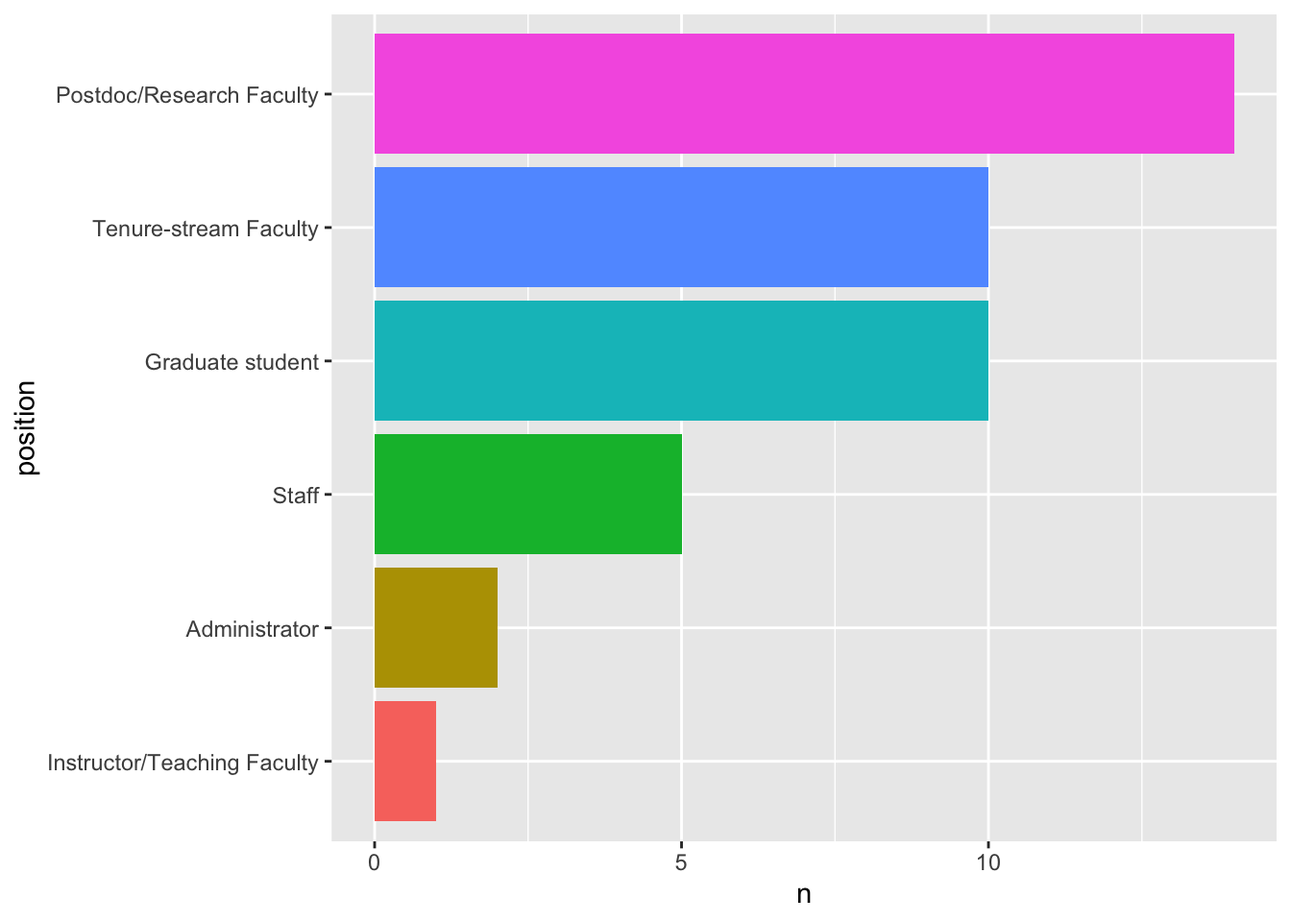
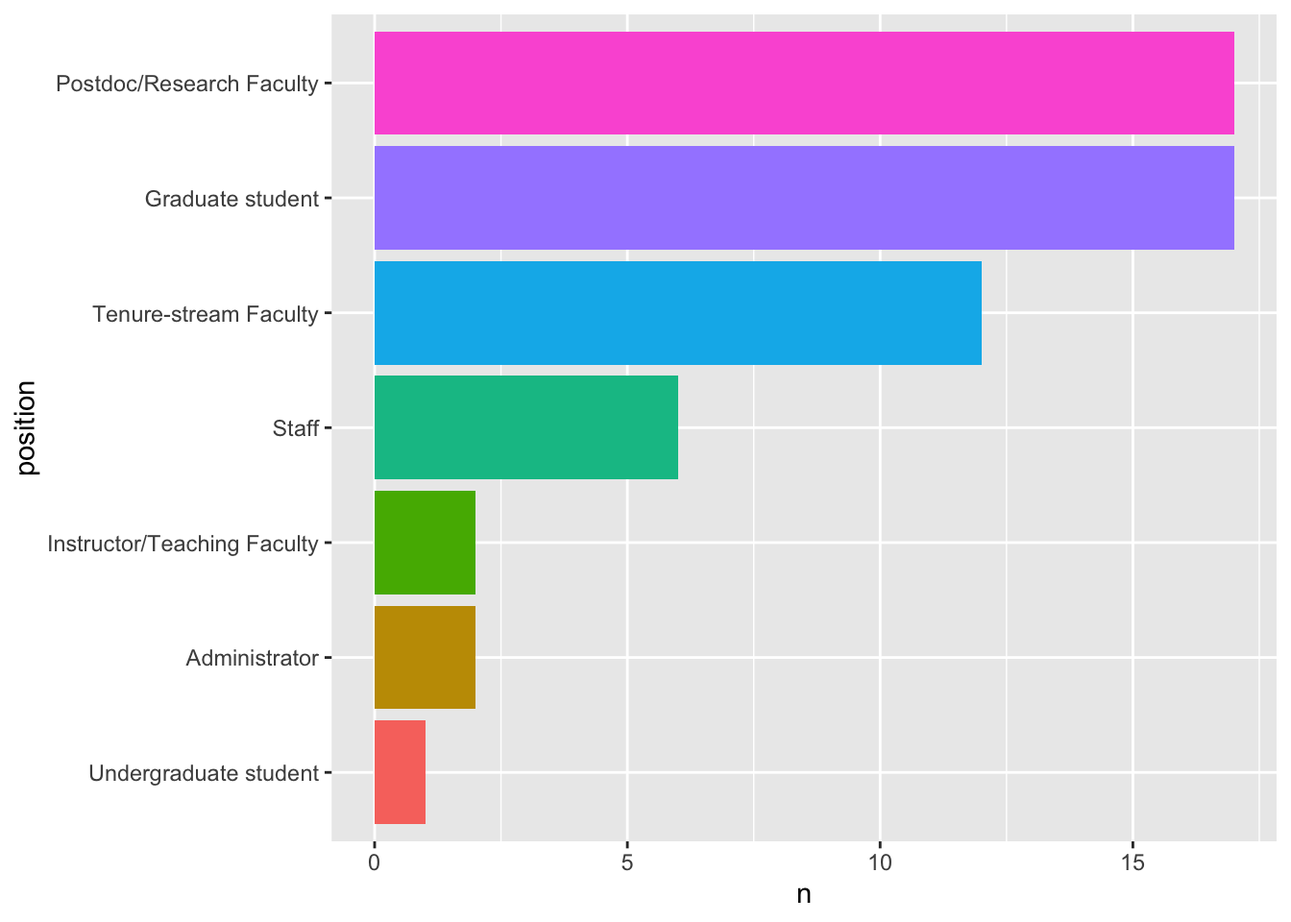
Update registration.qmd with new data.

diff --git a/docs/registration.html b/docs/registration.html
@@ -276,9 +276,7 @@ window.Quarto = {
   <li><a href="#registration-numbers" id="toc-registration-numbers" class="nav-link" data-scroll-target="#registration-numbers">Registration numbers</a></li>
   <li><a href="#time-series" id="toc-time-series" class="nav-link" data-scroll-target="#time-series">Time series</a></li>
   <li><a href="#registrant-attendance-plans-by-day" id="toc-registrant-attendance-plans-by-day" class="nav-link" data-scroll-target="#registrant-attendance-plans-by-day">Registrant attendance plans by day</a></li>
-  </ul></li>
-  <li><a href="#registrations-by-position" id="toc-registrations-by-position" class="nav-link" data-scroll-target="#registrations-by-position">Registrations by position</a>
-  <ul class="collapse">
+  <li><a href="#registrations-by-position" id="toc-registrations-by-position" class="nav-link" data-scroll-target="#registrations-by-position">Registrations by position</a></li>
   <li><a href="#registrations-by-unit" id="toc-registrations-by-unit" class="nav-link" data-scroll-target="#registrations-by-unit">Registrations by unit</a></li>
   </ul></li>
   </ul>
@@ -301,7 +299,7 @@ window.Quarto = {
     <div>
     <div class="quarto-title-meta-heading">Modified</div>
     <div class="quarto-title-meta-contents">
-      <p class="date-modified">July 10, 2025</p>
+      <p class="date-modified">July 11, 2025</p>
     </div>
   </div>
     
@@ -532,7 +530,7 @@ Table&nbsp;9.1: A minimal data dictionary.
 <span id="cb7-5"><a href="#cb7-5" aria-hidden="true" tabindex="-1"></a>  dplyr<span class="sc">::</span><span class="fu">mutate</span>(<span class="at">keynotes =</span> stringr<span class="sc">::</span><span class="fu">str_detect</span>(<span class="at">string =</span> bootcamp_keynote, <span class="at">pattern =</span> <span class="st">"Keynote"</span>))</span></code><button title="Copy to Clipboard" class="code-copy-button"><i class="bi"></i></button></pre></div>
 </details>
 </div>
-<p>As of 2025-07-10 09:51:55.91369, we have <span class="math inline">\(n=\)</span> 42 registered attendees. That is 56 % of our target registration/attendance limit of <em>n</em>=75.</p>
+<p>As of 2025-07-11 08:35:57.896865, we have <span class="math inline">\(n=\)</span> 57 registered attendees. That is 76 % of our target registration/attendance limit of <em>n</em>=75.</p>
 </section>
 <section id="time-series" class="level3 unnumbered">
 <h3 class="unnumbered anchored" data-anchor-id="time-series">Time series</h3>
@@ -609,13 +607,13 @@ n_fri
 <tbody>
 <tr>
 <td style="text-align:right;">
-31
+45
 </td>
 <td style="text-align:right;">
-36
+50
 </td>
 <td style="text-align:right;">
-29
+42
 </td>
 </tr>
 </tbody>
@@ -627,9 +625,8 @@ n_fri
 </div>
 </div>
 </section>
-</section>
-<section id="registrations-by-position" class="level2">
-<h2 class="anchored" data-anchor-id="registrations-by-position">Registrations by position</h2>
+<section id="registrations-by-position" class="level3">
+<h3 class="anchored" data-anchor-id="registrations-by-position">Registrations by position</h3>
 <div class="cell">
 <details class="code-fold">
 <summary>Code</summary>
@@ -657,6 +654,7 @@ Figure&nbsp;9.2: Registrations by position
 </div>
 </div>
 </div>
+</section>
 <section id="registrations-by-unit" class="level3">
 <h3 class="anchored" data-anchor-id="registrations-by-unit">Registrations by unit</h3>
 <div class="cell">
@@ -666,12 +664,12 @@ Figure&nbsp;9.2: Registrations by position
 <span id="cb11-2"><a href="#cb11-2" aria-hidden="true" tabindex="-1"></a>  dplyr<span class="sc">::</span><span class="fu">mutate</span>(</span>
 <span id="cb11-3"><a href="#cb11-3" aria-hidden="true" tabindex="-1"></a>    <span class="at">dept =</span> dplyr<span class="sc">::</span><span class="fu">recode</span>(</span>
 <span id="cb11-4"><a href="#cb11-4" aria-hidden="true" tabindex="-1"></a>      dept,</span>
-<span id="cb11-5"><a href="#cb11-5" aria-hidden="true" tabindex="-1"></a>      <span class="st">`</span><span class="at">Department of Chemical Engineering</span><span class="st">`</span> <span class="ot">=</span> <span class="st">"Chemical Engineering"</span>,</span>
-<span id="cb11-6"><a href="#cb11-6" aria-hidden="true" tabindex="-1"></a>      <span class="st">`</span><span class="at">Clinical Psychology</span><span class="st">`</span> <span class="ot">=</span> <span class="st">"Psychology"</span>,</span>
-<span id="cb11-7"><a href="#cb11-7" aria-hidden="true" tabindex="-1"></a>      <span class="st">`</span><span class="at">Psychology (Cognitive)</span><span class="st">`</span> <span class="ot">=</span> <span class="st">"Psychology"</span>,</span>
-<span id="cb11-8"><a href="#cb11-8" aria-hidden="true" tabindex="-1"></a>      <span class="st">`</span><span class="at">Psychology / SSRI</span><span class="st">`</span> <span class="ot">=</span> <span class="st">"Psychology"</span>,</span>
-<span id="cb11-9"><a href="#cb11-9" aria-hidden="true" tabindex="-1"></a>      <span class="st">`</span><span class="at">Department of Psychology</span><span class="st">`</span> <span class="ot">=</span> <span class="st">"Psychology"</span>,</span>
-<span id="cb11-10"><a href="#cb11-10" aria-hidden="true" tabindex="-1"></a>      <span class="st">`</span><span class="at">Cognitive Psychology</span><span class="st">`</span> <span class="ot">=</span> <span class="st">"Psychology"</span>,</span>
+<span id="cb11-5"><a href="#cb11-5" aria-hidden="true" tabindex="-1"></a>      <span class="st">`</span><span class="at">Clinical Psychology</span><span class="st">`</span> <span class="ot">=</span> <span class="st">"Psychology"</span>,</span>
+<span id="cb11-6"><a href="#cb11-6" aria-hidden="true" tabindex="-1"></a>      <span class="st">`</span><span class="at">Psychology (Cognitive)</span><span class="st">`</span> <span class="ot">=</span> <span class="st">"Psychology"</span>,</span>
+<span id="cb11-7"><a href="#cb11-7" aria-hidden="true" tabindex="-1"></a>      <span class="st">`</span><span class="at">Psychology / SSRI</span><span class="st">`</span> <span class="ot">=</span> <span class="st">"Psychology"</span>,</span>
+<span id="cb11-8"><a href="#cb11-8" aria-hidden="true" tabindex="-1"></a>      <span class="st">`</span><span class="at">Department of Psychology</span><span class="st">`</span> <span class="ot">=</span> <span class="st">"Psychology"</span>,</span>
+<span id="cb11-9"><a href="#cb11-9" aria-hidden="true" tabindex="-1"></a>      <span class="st">`</span><span class="at">Cognitive Psychology</span><span class="st">`</span> <span class="ot">=</span> <span class="st">"Psychology"</span>,</span>
+<span id="cb11-10"><a href="#cb11-10" aria-hidden="true" tabindex="-1"></a>      <span class="st">`</span><span class="at">Psychology, Developmental</span><span class="st">`</span> <span class="ot">=</span> <span class="st">"Psychology"</span>,</span>
 <span id="cb11-11"><a href="#cb11-11" aria-hidden="true" tabindex="-1"></a>      <span class="st">`</span><span class="at">Psych</span><span class="st">`</span> <span class="ot">=</span> <span class="st">"Psychology"</span>,</span>
 <span id="cb11-12"><a href="#cb11-12" aria-hidden="true" tabindex="-1"></a>      <span class="st">`</span><span class="at">English language</span><span class="st">`</span> <span class="ot">=</span> <span class="st">"English"</span>,</span>
 <span id="cb11-13"><a href="#cb11-13" aria-hidden="true" tabindex="-1"></a>      <span class="st">`</span><span class="at">english</span><span class="st">`</span> <span class="ot">=</span> <span class="st">"English"</span>,</span>
@@ -681,80 +679,96 @@ Figure&nbsp;9.2: Registrations by position
 <span id="cb11-17"><a href="#cb11-17" aria-hidden="true" tabindex="-1"></a>      <span class="st">`</span><span class="at">Languages and Literature</span><span class="st">`</span> <span class="ot">=</span> <span class="st">"Global Languages &amp; Literatures"</span>,</span>
 <span id="cb11-18"><a href="#cb11-18" aria-hidden="true" tabindex="-1"></a>      <span class="st">`</span><span class="at">Department of Foreign Languages</span><span class="st">`</span> <span class="ot">=</span> <span class="st">"Global Languages &amp; Literatures"</span>,</span>
 <span id="cb11-19"><a href="#cb11-19" aria-hidden="true" tabindex="-1"></a>      <span class="st">`</span><span class="at">Linguistics</span><span class="st">`</span> <span class="ot">=</span> <span class="st">"Applied Linguistics"</span>,</span>
-<span id="cb11-20"><a href="#cb11-20" aria-hidden="true" tabindex="-1"></a>      <span class="st">`</span><span class="at">Human Development and Family Studies &amp; Social Data Analytics</span><span class="st">`</span> <span class="ot">=</span> <span class="st">"HDFS"</span>,</span>
-<span id="cb11-21"><a href="#cb11-21" aria-hidden="true" tabindex="-1"></a>      <span class="st">`</span><span class="at">Human Development and Family Studies</span><span class="st">`</span> <span class="ot">=</span> <span class="st">"HDFS"</span>,</span>
-<span id="cb11-22"><a href="#cb11-22" aria-hidden="true" tabindex="-1"></a>      <span class="st">`</span><span class="at">Human Development and Family Studies (HDFS)</span><span class="st">`</span> <span class="ot">=</span> <span class="st">"HDFS"</span>,</span>
-<span id="cb11-23"><a href="#cb11-23" aria-hidden="true" tabindex="-1"></a>      <span class="st">`</span><span class="at">Department of Human Development and Family Studies</span><span class="st">`</span> <span class="ot">=</span> <span class="st">"HDFS"</span>,</span>
-<span id="cb11-24"><a href="#cb11-24" aria-hidden="true" tabindex="-1"></a>      <span class="st">`</span><span class="at">HDFS/DEMO</span><span class="st">`</span> <span class="ot">=</span> <span class="st">"HDFS"</span>,</span>
-<span id="cb11-25"><a href="#cb11-25" aria-hidden="true" tabindex="-1"></a>      <span class="st">`</span><span class="at">bbh</span><span class="st">`</span> <span class="ot">=</span> <span class="st">"BBH"</span>,</span>
-<span id="cb11-26"><a href="#cb11-26" aria-hidden="true" tabindex="-1"></a>      <span class="st">`</span><span class="at">Biobehavioral Health</span><span class="st">`</span> <span class="ot">=</span> <span class="st">"BBH"</span>,</span>
-<span id="cb11-27"><a href="#cb11-27" aria-hidden="true" tabindex="-1"></a>      <span class="st">`</span><span class="at">Biobehavioural Health</span><span class="st">`</span> <span class="ot">=</span> <span class="st">"BBH"</span>,</span>
-<span id="cb11-28"><a href="#cb11-28" aria-hidden="true" tabindex="-1"></a>      <span class="st">`</span><span class="at">RPTM</span><span class="st">`</span> <span class="ot">=</span> <span class="st">"Recreation, Park, &amp; Tourism Management"</span>,</span>
-<span id="cb11-29"><a href="#cb11-29" aria-hidden="true" tabindex="-1"></a>      <span class="st">`</span><span class="at">Sociology and Social Data Analytics</span><span class="st">`</span> <span class="ot">=</span> <span class="st">"Sociology"</span>,</span>
-<span id="cb11-30"><a href="#cb11-30" aria-hidden="true" tabindex="-1"></a>      <span class="st">`</span><span class="at">Spanish Italian and portuguese</span><span class="st">`</span> <span class="ot">=</span> <span class="st">"Spanish, Italian, &amp; Portuguese"</span>,</span>
-<span id="cb11-31"><a href="#cb11-31" aria-hidden="true" tabindex="-1"></a>      <span class="st">`</span><span class="at">Spanish, Italian, and Portuguese Department</span><span class="st">`</span> <span class="ot">=</span> <span class="st">"Spanish, Italian, &amp; Portuguese"</span>,</span>
-<span id="cb11-32"><a href="#cb11-32" aria-hidden="true" tabindex="-1"></a>      <span class="st">`</span><span class="at">Spanish Italian and Portuguese</span><span class="st">`</span> <span class="ot">=</span> <span class="st">"Spanish, Italian, &amp; Portuguese"</span>,</span>
-<span id="cb11-33"><a href="#cb11-33" aria-hidden="true" tabindex="-1"></a>      <span class="st">`</span><span class="at">Nutrition</span><span class="st">`</span> <span class="ot">=</span> <span class="st">"Nutritional Sciences"</span>,</span>
-<span id="cb11-34"><a href="#cb11-34" aria-hidden="true" tabindex="-1"></a>      <span class="st">`</span><span class="at">College of IST</span><span class="st">`</span> <span class="ot">=</span> <span class="st">"IST"</span>,</span>
-<span id="cb11-35"><a href="#cb11-35" aria-hidden="true" tabindex="-1"></a>      <span class="st">`</span><span class="at">Statistics Department</span><span class="st">`</span> <span class="ot">=</span> <span class="st">"Statistics"</span>,</span>
-<span id="cb11-36"><a href="#cb11-36" aria-hidden="true" tabindex="-1"></a>      <span class="st">`</span><span class="at">Recreation, Park and Tourism Management</span><span class="st">`</span> <span class="ot">=</span> <span class="st">"Recreation, Park, &amp; Tourism Management"</span>,</span>
-<span id="cb11-37"><a href="#cb11-37" aria-hidden="true" tabindex="-1"></a>      <span class="st">`</span><span class="at">SHS</span><span class="st">`</span> <span class="ot">=</span> <span class="st">"Student Health Svcs"</span>,</span>
-<span id="cb11-38"><a href="#cb11-38" aria-hidden="true" tabindex="-1"></a>      <span class="st">`</span><span class="at">ESM</span><span class="st">`</span> <span class="ot">=</span> <span class="st">"Engineering Science &amp; Mechanics"</span>,</span>
-<span id="cb11-39"><a href="#cb11-39" aria-hidden="true" tabindex="-1"></a>      <span class="st">`</span><span class="at">Engineering Science</span><span class="st">`</span> <span class="ot">=</span> <span class="st">"Engineering Science &amp; Mechanics"</span>,</span>
-<span id="cb11-40"><a href="#cb11-40" aria-hidden="true" tabindex="-1"></a>      <span class="st">`</span><span class="at">Engineering Science and Mechanics</span><span class="st">`</span> <span class="ot">=</span> <span class="st">"Engineering Science &amp; Mechanics"</span>,</span>
-<span id="cb11-41"><a href="#cb11-41" aria-hidden="true" tabindex="-1"></a>      <span class="st">`</span><span class="at">Department of Food Science</span><span class="st">`</span> <span class="ot">=</span> <span class="st">"Food Science"</span>,</span>
-<span id="cb11-42"><a href="#cb11-42" aria-hidden="true" tabindex="-1"></a>      <span class="st">`</span><span class="at">Libraries</span><span class="st">`</span> <span class="ot">=</span> <span class="st">"University Libraries"</span>,</span>
-<span id="cb11-43"><a href="#cb11-43" aria-hidden="true" tabindex="-1"></a>      <span class="st">`</span><span class="at">University libraries</span><span class="st">`</span> <span class="ot">=</span> <span class="st">"University Libraries"</span>,</span>
-<span id="cb11-44"><a href="#cb11-44" aria-hidden="true" tabindex="-1"></a>      <span class="st">`</span><span class="at">Astronomy and Astrophysics</span><span class="st">`</span> <span class="ot">=</span> <span class="st">"Astronomy &amp; Astrophysics"</span>,</span>
-<span id="cb11-45"><a href="#cb11-45" aria-hidden="true" tabindex="-1"></a>      <span class="st">`</span><span class="at">Ecosystem Science and Management</span><span class="st">`</span> <span class="ot">=</span> <span class="st">"Ecosystem Science &amp; Management"</span></span>
-<span id="cb11-46"><a href="#cb11-46" aria-hidden="true" tabindex="-1"></a>    )</span>
-<span id="cb11-47"><a href="#cb11-47" aria-hidden="true" tabindex="-1"></a>  ) <span class="sc">|&gt;</span> </span>
-<span id="cb11-48"><a href="#cb11-48" aria-hidden="true" tabindex="-1"></a>  dplyr<span class="sc">::</span><span class="fu">mutate</span>(</span>
-<span id="cb11-49"><a href="#cb11-49" aria-hidden="true" tabindex="-1"></a>    <span class="at">college =</span> <span class="fu">case_match</span>(</span>
-<span id="cb11-50"><a href="#cb11-50" aria-hidden="true" tabindex="-1"></a>      dept,</span>
-<span id="cb11-51"><a href="#cb11-51" aria-hidden="true" tabindex="-1"></a>      <span class="st">"Statistics"</span> <span class="sc">~</span> <span class="st">"ECoS"</span>,</span>
-<span id="cb11-52"><a href="#cb11-52" aria-hidden="true" tabindex="-1"></a>      <span class="st">"Biology"</span> <span class="sc">~</span> <span class="st">"ECoS"</span>,</span>
-<span id="cb11-53"><a href="#cb11-53" aria-hidden="true" tabindex="-1"></a>      <span class="st">"Psychology"</span> <span class="sc">~</span> <span class="st">"CLA"</span>,</span>
-<span id="cb11-54"><a href="#cb11-54" aria-hidden="true" tabindex="-1"></a>      <span class="st">"Spanish, Italian, &amp; Portuguese"</span> <span class="sc">~</span> <span class="st">"CLA"</span>,</span>
-<span id="cb11-55"><a href="#cb11-55" aria-hidden="true" tabindex="-1"></a>      <span class="st">"Research Informatics and Publishing"</span> <span class="sc">~</span> <span class="st">"Libraries"</span>,</span>
-<span id="cb11-56"><a href="#cb11-56" aria-hidden="true" tabindex="-1"></a>      <span class="st">"Political Science"</span> <span class="sc">~</span> <span class="st">"CLA"</span>,</span>
-<span id="cb11-57"><a href="#cb11-57" aria-hidden="true" tabindex="-1"></a>      <span class="st">"Applied Linguistics"</span> <span class="sc">~</span> <span class="st">"CLA"</span>,</span>
-<span id="cb11-58"><a href="#cb11-58" aria-hidden="true" tabindex="-1"></a>      <span class="st">"Global Languages &amp; Literatures"</span> <span class="sc">~</span> <span class="st">"CLA"</span>,</span>
-<span id="cb11-59"><a href="#cb11-59" aria-hidden="true" tabindex="-1"></a>      <span class="st">"Sociology"</span> <span class="sc">~</span> <span class="st">"CLA"</span>,</span>
-<span id="cb11-60"><a href="#cb11-60" aria-hidden="true" tabindex="-1"></a>      <span class="st">"English"</span> <span class="sc">~</span> <span class="st">"CLA"</span>,</span>
-<span id="cb11-61"><a href="#cb11-61" aria-hidden="true" tabindex="-1"></a>      <span class="st">"C-SoDA"</span> <span class="sc">~</span> <span class="st">"CLA"</span>,</span>
-<span id="cb11-62"><a href="#cb11-62" aria-hidden="true" tabindex="-1"></a>      <span class="st">"Office of Digital Pedagogies and Initiatives"</span> <span class="sc">~</span> <span class="st">"CLA"</span>,</span>
-<span id="cb11-63"><a href="#cb11-63" aria-hidden="true" tabindex="-1"></a>      <span class="st">"Asian Studies"</span> <span class="sc">~</span> <span class="st">"CLA"</span>,</span>
-<span id="cb11-64"><a href="#cb11-64" aria-hidden="true" tabindex="-1"></a>      <span class="st">"IST"</span> <span class="sc">~</span> <span class="st">"IST"</span>,</span>
-<span id="cb11-65"><a href="#cb11-65" aria-hidden="true" tabindex="-1"></a>      <span class="st">"Chemical Engineering"</span> <span class="sc">~</span> <span class="st">"Engineering"</span>,</span>
-<span id="cb11-66"><a href="#cb11-66" aria-hidden="true" tabindex="-1"></a>      <span class="st">"Material Science and Engineering"</span> <span class="sc">~</span> <span class="st">"Engineering"</span>,</span>
-<span id="cb11-67"><a href="#cb11-67" aria-hidden="true" tabindex="-1"></a>      <span class="st">"Engineering Science &amp; Mechanics"</span> <span class="sc">~</span> <span class="st">"Engineering"</span>,</span>
-<span id="cb11-68"><a href="#cb11-68" aria-hidden="true" tabindex="-1"></a>      <span class="st">"College of Engineering"</span> <span class="sc">~</span> <span class="st">"Engineering"</span>,</span>
-<span id="cb11-69"><a href="#cb11-69" aria-hidden="true" tabindex="-1"></a>      <span class="st">"Biomedical Engineering"</span> <span class="sc">~</span> <span class="st">"Engineering"</span>,</span>
-<span id="cb11-70"><a href="#cb11-70" aria-hidden="true" tabindex="-1"></a>      <span class="st">"Nutritional Sciences"</span> <span class="sc">~</span> <span class="st">"HHD"</span>,</span>
-<span id="cb11-71"><a href="#cb11-71" aria-hidden="true" tabindex="-1"></a>      <span class="st">"HDFS"</span> <span class="sc">~</span> <span class="st">"HHD"</span>,</span>
-<span id="cb11-72"><a href="#cb11-72" aria-hidden="true" tabindex="-1"></a>      <span class="st">"Kinesiology"</span> <span class="sc">~</span> <span class="st">"HHD"</span>,</span>
-<span id="cb11-73"><a href="#cb11-73" aria-hidden="true" tabindex="-1"></a>      <span class="st">"Recreation, Park, &amp; Tourism Management"</span> <span class="sc">~</span> <span class="st">"HHD"</span>,</span>
-<span id="cb11-74"><a href="#cb11-74" aria-hidden="true" tabindex="-1"></a>      <span class="st">"BBH"</span> <span class="sc">~</span> <span class="st">"HHD"</span>,</span>
-<span id="cb11-75"><a href="#cb11-75" aria-hidden="true" tabindex="-1"></a>      <span class="st">"College of Nursing"</span> <span class="sc">~</span> <span class="st">"Nursing"</span>,</span>
-<span id="cb11-76"><a href="#cb11-76" aria-hidden="true" tabindex="-1"></a>      <span class="st">"Bellisario College of Communication"</span> <span class="sc">~</span> <span class="st">"Comm"</span>,</span>
-<span id="cb11-77"><a href="#cb11-77" aria-hidden="true" tabindex="-1"></a>      <span class="st">"Marketing"</span> <span class="sc">~</span> <span class="st">"Smeal"</span>,</span>
-<span id="cb11-78"><a href="#cb11-78" aria-hidden="true" tabindex="-1"></a>      <span class="st">"Food Science"</span> <span class="sc">~</span> <span class="st">"Ag"</span>,</span>
-<span id="cb11-79"><a href="#cb11-79" aria-hidden="true" tabindex="-1"></a>      <span class="st">"Neuroscience"</span> <span class="sc">~</span> <span class="st">"Med"</span>,</span>
-<span id="cb11-80"><a href="#cb11-80" aria-hidden="true" tabindex="-1"></a>      <span class="st">"College of Human and Health Development"</span> <span class="sc">~</span> <span class="st">"HHD"</span>,</span>
-<span id="cb11-81"><a href="#cb11-81" aria-hidden="true" tabindex="-1"></a>      <span class="st">"University Libraries"</span> <span class="sc">~</span> <span class="st">"Libraries"</span>,</span>
-<span id="cb11-82"><a href="#cb11-82" aria-hidden="true" tabindex="-1"></a>      <span class="st">"ICDS"</span> <span class="sc">~</span> <span class="st">"ICDS"</span>,</span>
-<span id="cb11-83"><a href="#cb11-83" aria-hidden="true" tabindex="-1"></a>      <span class="st">"EESI"</span> <span class="sc">~</span> <span class="st">"EESI"</span>,</span>
-<span id="cb11-84"><a href="#cb11-84" aria-hidden="true" tabindex="-1"></a>      <span class="st">"ORP"</span> <span class="sc">~</span> <span class="st">"OVPR"</span>,</span>
-<span id="cb11-85"><a href="#cb11-85" aria-hidden="true" tabindex="-1"></a>      <span class="st">"Astronomy &amp; Astrophysics"</span> <span class="sc">~</span> <span class="st">"ECoS"</span>,</span>
-<span id="cb11-86"><a href="#cb11-86" aria-hidden="true" tabindex="-1"></a>      <span class="st">"Entomology"</span> <span class="sc">~</span> <span class="st">"AgSci"</span>,</span>
-<span id="cb11-87"><a href="#cb11-87" aria-hidden="true" tabindex="-1"></a>      <span class="st">"Ecosystem Science &amp; Management"</span> <span class="sc">~</span> <span class="st">"AgSci"</span>,</span>
-<span id="cb11-88"><a href="#cb11-88" aria-hidden="true" tabindex="-1"></a>      <span class="st">"Plant Biology"</span> <span class="sc">~</span> <span class="st">"Huck"</span>,</span>
-<span id="cb11-89"><a href="#cb11-89" aria-hidden="true" tabindex="-1"></a>      <span class="st">"Acoustics"</span> <span class="sc">~</span> <span class="st">"Engineering"</span></span>
-<span id="cb11-90"><a href="#cb11-90" aria-hidden="true" tabindex="-1"></a>    ),</span>
-<span id="cb11-91"><a href="#cb11-91" aria-hidden="true" tabindex="-1"></a>    <span class="at">.default =</span> <span class="st">"Unknown"</span>,</span>
-<span id="cb11-92"><a href="#cb11-92" aria-hidden="true" tabindex="-1"></a>    <span class="at">.missing =</span> <span class="st">"Unknown"</span></span>
-<span id="cb11-93"><a href="#cb11-93" aria-hidden="true" tabindex="-1"></a>  )</span></code><button title="Copy to Clipboard" class="code-copy-button"><i class="bi"></i></button></pre></div>
+<span id="cb11-20"><a href="#cb11-20" aria-hidden="true" tabindex="-1"></a>      <span class="st">`</span><span class="at">Department of Sociology and Criminology</span><span class="st">`</span> <span class="ot">=</span> <span class="st">"Sociology &amp; Criminology"</span>,</span>
+<span id="cb11-21"><a href="#cb11-21" aria-hidden="true" tabindex="-1"></a>      <span class="st">`</span><span class="at">Communication Sciences and Disorders</span><span class="st">`</span> <span class="ot">=</span> <span class="st">"Communication Sciences &amp; Disorders"</span>,</span>
+<span id="cb11-22"><a href="#cb11-22" aria-hidden="true" tabindex="-1"></a>      <span class="st">`</span><span class="at">CSD</span><span class="st">`</span> <span class="ot">=</span> <span class="st">"Communication Sciences &amp; Disorders"</span>,</span>
+<span id="cb11-23"><a href="#cb11-23" aria-hidden="true" tabindex="-1"></a>      <span class="st">`</span><span class="at">Human Development and Family Studies &amp; Social Data Analytics</span><span class="st">`</span> <span class="ot">=</span> <span class="st">"HDFS"</span>,</span>
+<span id="cb11-24"><a href="#cb11-24" aria-hidden="true" tabindex="-1"></a>      <span class="st">`</span><span class="at">Human Development and Family Studies</span><span class="st">`</span> <span class="ot">=</span> <span class="st">"HDFS"</span>,</span>
+<span id="cb11-25"><a href="#cb11-25" aria-hidden="true" tabindex="-1"></a>      <span class="st">`</span><span class="at">Human Development and Family Studies (HDFS)</span><span class="st">`</span> <span class="ot">=</span> <span class="st">"HDFS"</span>,</span>
+<span id="cb11-26"><a href="#cb11-26" aria-hidden="true" tabindex="-1"></a>      <span class="st">`</span><span class="at">Department of Human Development and Family Studies</span><span class="st">`</span> <span class="ot">=</span> <span class="st">"HDFS"</span>,</span>
+<span id="cb11-27"><a href="#cb11-27" aria-hidden="true" tabindex="-1"></a>      <span class="st">`</span><span class="at">Human Development and Family Sciences</span><span class="st">`</span> <span class="ot">=</span> <span class="st">"HDFS"</span>,</span>
+<span id="cb11-28"><a href="#cb11-28" aria-hidden="true" tabindex="-1"></a>      <span class="st">`</span><span class="at">HDFS/DEMO</span><span class="st">`</span> <span class="ot">=</span> <span class="st">"HDFS"</span>,</span>
+<span id="cb11-29"><a href="#cb11-29" aria-hidden="true" tabindex="-1"></a>      <span class="st">`</span><span class="at">bbh</span><span class="st">`</span> <span class="ot">=</span> <span class="st">"BBH"</span>,</span>
+<span id="cb11-30"><a href="#cb11-30" aria-hidden="true" tabindex="-1"></a>      <span class="st">`</span><span class="at">Biobehavioral Health</span><span class="st">`</span> <span class="ot">=</span> <span class="st">"BBH"</span>,</span>
+<span id="cb11-31"><a href="#cb11-31" aria-hidden="true" tabindex="-1"></a>      <span class="st">`</span><span class="at">Biobehavioural Health</span><span class="st">`</span> <span class="ot">=</span> <span class="st">"BBH"</span>,</span>
+<span id="cb11-32"><a href="#cb11-32" aria-hidden="true" tabindex="-1"></a>      <span class="st">`</span><span class="at">Biobehavioural  Health</span><span class="st">`</span> <span class="ot">=</span> <span class="st">"BBH"</span>,</span>
+<span id="cb11-33"><a href="#cb11-33" aria-hidden="true" tabindex="-1"></a>      <span class="st">`</span><span class="at">RPTM</span><span class="st">`</span> <span class="ot">=</span> <span class="st">"Recreation, Park, &amp; Tourism Management"</span>,</span>
+<span id="cb11-34"><a href="#cb11-34" aria-hidden="true" tabindex="-1"></a>      <span class="st">`</span><span class="at">Sociology and Social Data Analytics</span><span class="st">`</span> <span class="ot">=</span> <span class="st">"Sociology"</span>,</span>
+<span id="cb11-35"><a href="#cb11-35" aria-hidden="true" tabindex="-1"></a>      <span class="st">`</span><span class="at">Spanish Italian and portuguese</span><span class="st">`</span> <span class="ot">=</span> <span class="st">"Spanish, Italian, &amp; Portuguese"</span>,</span>
+<span id="cb11-36"><a href="#cb11-36" aria-hidden="true" tabindex="-1"></a>      <span class="st">`</span><span class="at">Spanish, Italian, and Portuguese Department</span><span class="st">`</span> <span class="ot">=</span> <span class="st">"Spanish, Italian, &amp; Portuguese"</span>,</span>
+<span id="cb11-37"><a href="#cb11-37" aria-hidden="true" tabindex="-1"></a>      <span class="st">`</span><span class="at">Spanish Italian and Portuguese</span><span class="st">`</span> <span class="ot">=</span> <span class="st">"Spanish, Italian, &amp; Portuguese"</span>,</span>
+<span id="cb11-38"><a href="#cb11-38" aria-hidden="true" tabindex="-1"></a>      <span class="st">`</span><span class="at">Spanish, Italian, and Portuguese</span><span class="st">`</span> <span class="ot">=</span> <span class="st">"Spanish, Italian, &amp; Portuguese"</span>,</span>
+<span id="cb11-39"><a href="#cb11-39" aria-hidden="true" tabindex="-1"></a>      <span class="st">`</span><span class="at">Nutrition</span><span class="st">`</span> <span class="ot">=</span> <span class="st">"Nutritional Sciences"</span>,</span>
+<span id="cb11-40"><a href="#cb11-40" aria-hidden="true" tabindex="-1"></a>      <span class="st">`</span><span class="at">College of IST</span><span class="st">`</span> <span class="ot">=</span> <span class="st">"IST"</span>,</span>
+<span id="cb11-41"><a href="#cb11-41" aria-hidden="true" tabindex="-1"></a>      <span class="st">`</span><span class="at">Statistics Department</span><span class="st">`</span> <span class="ot">=</span> <span class="st">"Statistics"</span>,</span>
+<span id="cb11-42"><a href="#cb11-42" aria-hidden="true" tabindex="-1"></a>      <span class="st">`</span><span class="at">Astronomy and Astrophysics</span><span class="st">`</span> <span class="ot">=</span> <span class="st">"Astronomy &amp; Astrophysics"</span>,</span>
+<span id="cb11-43"><a href="#cb11-43" aria-hidden="true" tabindex="-1"></a>      <span class="st">`</span><span class="at">Recreation, Park and Tourism Management</span><span class="st">`</span> <span class="ot">=</span> <span class="st">"Recreation, Park, &amp; Tourism Management"</span>,</span>
+<span id="cb11-44"><a href="#cb11-44" aria-hidden="true" tabindex="-1"></a>      <span class="st">`</span><span class="at">SHS</span><span class="st">`</span> <span class="ot">=</span> <span class="st">"Student Health Svcs"</span>,</span>
+<span id="cb11-45"><a href="#cb11-45" aria-hidden="true" tabindex="-1"></a>      <span class="st">`</span><span class="at">Department of Chemical Engineering</span><span class="st">`</span> <span class="ot">=</span> <span class="st">"Chemical Engineering"</span>,</span>
+<span id="cb11-46"><a href="#cb11-46" aria-hidden="true" tabindex="-1"></a>      <span class="st">`</span><span class="at">ESM</span><span class="st">`</span> <span class="ot">=</span> <span class="st">"Engineering Science &amp; Mechanics"</span>,</span>
+<span id="cb11-47"><a href="#cb11-47" aria-hidden="true" tabindex="-1"></a>      <span class="st">`</span><span class="at">Engineering Science</span><span class="st">`</span> <span class="ot">=</span> <span class="st">"Engineering Science &amp; Mechanics"</span>,</span>
+<span id="cb11-48"><a href="#cb11-48" aria-hidden="true" tabindex="-1"></a>      <span class="st">`</span><span class="at">Engineering Science and Mechanics</span><span class="st">`</span> <span class="ot">=</span> <span class="st">"Engineering Science &amp; Mechanics"</span>,</span>
+<span id="cb11-49"><a href="#cb11-49" aria-hidden="true" tabindex="-1"></a>      <span class="st">`</span><span class="at">EECS</span><span class="st">`</span> <span class="ot">=</span> <span class="st">"Electrical Engineering &amp; Comp Sci"</span>,</span>
+<span id="cb11-50"><a href="#cb11-50" aria-hidden="true" tabindex="-1"></a>      <span class="st">`</span><span class="at">Department of Food Science</span><span class="st">`</span> <span class="ot">=</span> <span class="st">"Food Science"</span>,</span>
+<span id="cb11-51"><a href="#cb11-51" aria-hidden="true" tabindex="-1"></a>      <span class="st">`</span><span class="at">Libraries</span><span class="st">`</span> <span class="ot">=</span> <span class="st">"University Libraries"</span>,</span>
+<span id="cb11-52"><a href="#cb11-52" aria-hidden="true" tabindex="-1"></a>      <span class="st">`</span><span class="at">University libraries</span><span class="st">`</span> <span class="ot">=</span> <span class="st">"University Libraries"</span>,</span>
+<span id="cb11-53"><a href="#cb11-53" aria-hidden="true" tabindex="-1"></a>      <span class="st">`</span><span class="at">Ecosystem Science and Management</span><span class="st">`</span> <span class="ot">=</span> <span class="st">"Ecosystem Science &amp; Management"</span>,</span>
+<span id="cb11-54"><a href="#cb11-54" aria-hidden="true" tabindex="-1"></a>      <span class="st">`</span><span class="at">PRC</span><span class="st">`</span> <span class="ot">=</span> <span class="st">"Population Research Center"</span></span>
+<span id="cb11-55"><a href="#cb11-55" aria-hidden="true" tabindex="-1"></a>    )</span>
+<span id="cb11-56"><a href="#cb11-56" aria-hidden="true" tabindex="-1"></a>  ) <span class="sc">|&gt;</span> </span>
+<span id="cb11-57"><a href="#cb11-57" aria-hidden="true" tabindex="-1"></a>  dplyr<span class="sc">::</span><span class="fu">mutate</span>(</span>
+<span id="cb11-58"><a href="#cb11-58" aria-hidden="true" tabindex="-1"></a>    <span class="at">college =</span> <span class="fu">case_match</span>(</span>
+<span id="cb11-59"><a href="#cb11-59" aria-hidden="true" tabindex="-1"></a>      dept,</span>
+<span id="cb11-60"><a href="#cb11-60" aria-hidden="true" tabindex="-1"></a>      <span class="st">"Statistics"</span> <span class="sc">~</span> <span class="st">"ECoS"</span>,</span>
+<span id="cb11-61"><a href="#cb11-61" aria-hidden="true" tabindex="-1"></a>      <span class="st">"Biology"</span> <span class="sc">~</span> <span class="st">"ECoS"</span>,</span>
+<span id="cb11-62"><a href="#cb11-62" aria-hidden="true" tabindex="-1"></a>      <span class="st">"Psychology"</span> <span class="sc">~</span> <span class="st">"CLA"</span>,</span>
+<span id="cb11-63"><a href="#cb11-63" aria-hidden="true" tabindex="-1"></a>      <span class="st">"Spanish, Italian, &amp; Portuguese"</span> <span class="sc">~</span> <span class="st">"CLA"</span>,</span>
+<span id="cb11-64"><a href="#cb11-64" aria-hidden="true" tabindex="-1"></a>      <span class="st">"Research Informatics and Publishing"</span> <span class="sc">~</span> <span class="st">"Libraries"</span>,</span>
+<span id="cb11-65"><a href="#cb11-65" aria-hidden="true" tabindex="-1"></a>      <span class="st">"Political Science"</span> <span class="sc">~</span> <span class="st">"CLA"</span>,</span>
+<span id="cb11-66"><a href="#cb11-66" aria-hidden="true" tabindex="-1"></a>      <span class="st">"Applied Linguistics"</span> <span class="sc">~</span> <span class="st">"CLA"</span>,</span>
+<span id="cb11-67"><a href="#cb11-67" aria-hidden="true" tabindex="-1"></a>      <span class="st">"Global Languages &amp; Literatures"</span> <span class="sc">~</span> <span class="st">"CLA"</span>,</span>
+<span id="cb11-68"><a href="#cb11-68" aria-hidden="true" tabindex="-1"></a>      <span class="st">"Sociology"</span> <span class="sc">~</span> <span class="st">"CLA"</span>,</span>
+<span id="cb11-69"><a href="#cb11-69" aria-hidden="true" tabindex="-1"></a>      <span class="st">"English"</span> <span class="sc">~</span> <span class="st">"CLA"</span>,</span>
+<span id="cb11-70"><a href="#cb11-70" aria-hidden="true" tabindex="-1"></a>      <span class="st">"C-SoDA"</span> <span class="sc">~</span> <span class="st">"CLA"</span>,</span>
+<span id="cb11-71"><a href="#cb11-71" aria-hidden="true" tabindex="-1"></a>      <span class="st">"Office of Digital Pedagogies and Initiatives"</span> <span class="sc">~</span> <span class="st">"CLA"</span>,</span>
+<span id="cb11-72"><a href="#cb11-72" aria-hidden="true" tabindex="-1"></a>      <span class="st">"Asian Studies"</span> <span class="sc">~</span> <span class="st">"CLA"</span>,</span>
+<span id="cb11-73"><a href="#cb11-73" aria-hidden="true" tabindex="-1"></a>      <span class="st">"Sociology &amp; Criminology"</span> <span class="sc">~</span> <span class="st">"CLA"</span>,</span>
+<span id="cb11-74"><a href="#cb11-74" aria-hidden="true" tabindex="-1"></a>      <span class="st">"IST"</span> <span class="sc">~</span> <span class="st">"IST"</span>,</span>
+<span id="cb11-75"><a href="#cb11-75" aria-hidden="true" tabindex="-1"></a>      <span class="st">"Chemical Engineering"</span> <span class="sc">~</span> <span class="st">"Engineering"</span>,</span>
+<span id="cb11-76"><a href="#cb11-76" aria-hidden="true" tabindex="-1"></a>      <span class="st">"Material Science and Engineering"</span> <span class="sc">~</span> <span class="st">"Engineering"</span>,</span>
+<span id="cb11-77"><a href="#cb11-77" aria-hidden="true" tabindex="-1"></a>      <span class="st">"Engineering Science &amp; Mechanics"</span> <span class="sc">~</span> <span class="st">"Engineering"</span>,</span>
+<span id="cb11-78"><a href="#cb11-78" aria-hidden="true" tabindex="-1"></a>      <span class="st">"College of Engineering"</span> <span class="sc">~</span> <span class="st">"Engineering"</span>,</span>
+<span id="cb11-79"><a href="#cb11-79" aria-hidden="true" tabindex="-1"></a>      <span class="st">"Biomedical Engineering"</span> <span class="sc">~</span> <span class="st">"Engineering"</span>,</span>
+<span id="cb11-80"><a href="#cb11-80" aria-hidden="true" tabindex="-1"></a>      <span class="st">"Nutritional Sciences"</span> <span class="sc">~</span> <span class="st">"HHD"</span>,</span>
+<span id="cb11-81"><a href="#cb11-81" aria-hidden="true" tabindex="-1"></a>      <span class="st">"HDFS"</span> <span class="sc">~</span> <span class="st">"HHD"</span>,</span>
+<span id="cb11-82"><a href="#cb11-82" aria-hidden="true" tabindex="-1"></a>      <span class="st">"Kinesiology"</span> <span class="sc">~</span> <span class="st">"HHD"</span>,</span>
+<span id="cb11-83"><a href="#cb11-83" aria-hidden="true" tabindex="-1"></a>      <span class="st">"Recreation, Park, &amp; Tourism Management"</span> <span class="sc">~</span> <span class="st">"HHD"</span>,</span>
+<span id="cb11-84"><a href="#cb11-84" aria-hidden="true" tabindex="-1"></a>      <span class="st">"BBH"</span> <span class="sc">~</span> <span class="st">"HHD"</span>,</span>
+<span id="cb11-85"><a href="#cb11-85" aria-hidden="true" tabindex="-1"></a>      <span class="st">"College of Nursing"</span> <span class="sc">~</span> <span class="st">"Nursing"</span>,</span>
+<span id="cb11-86"><a href="#cb11-86" aria-hidden="true" tabindex="-1"></a>      <span class="st">"Bellisario College of Communication"</span> <span class="sc">~</span> <span class="st">"Comm"</span>,</span>
+<span id="cb11-87"><a href="#cb11-87" aria-hidden="true" tabindex="-1"></a>      <span class="st">"Marketing"</span> <span class="sc">~</span> <span class="st">"Smeal"</span>,</span>
+<span id="cb11-88"><a href="#cb11-88" aria-hidden="true" tabindex="-1"></a>      <span class="st">"Food Science"</span> <span class="sc">~</span> <span class="st">"Ag"</span>,</span>
+<span id="cb11-89"><a href="#cb11-89" aria-hidden="true" tabindex="-1"></a>      <span class="st">"Neuroscience"</span> <span class="sc">~</span> <span class="st">"Med"</span>,</span>
+<span id="cb11-90"><a href="#cb11-90" aria-hidden="true" tabindex="-1"></a>      <span class="st">"College of Human and Health Development"</span> <span class="sc">~</span> <span class="st">"HHD"</span>,</span>
+<span id="cb11-91"><a href="#cb11-91" aria-hidden="true" tabindex="-1"></a>      <span class="st">"University Libraries"</span> <span class="sc">~</span> <span class="st">"Libraries"</span>,</span>
+<span id="cb11-92"><a href="#cb11-92" aria-hidden="true" tabindex="-1"></a>      <span class="st">"ICDS"</span> <span class="sc">~</span> <span class="st">"ICDS"</span>,</span>
+<span id="cb11-93"><a href="#cb11-93" aria-hidden="true" tabindex="-1"></a>      <span class="st">"EESI"</span> <span class="sc">~</span> <span class="st">"EESI"</span>,</span>
+<span id="cb11-94"><a href="#cb11-94" aria-hidden="true" tabindex="-1"></a>      <span class="st">"ORP"</span> <span class="sc">~</span> <span class="st">"OVPR"</span>,</span>
+<span id="cb11-95"><a href="#cb11-95" aria-hidden="true" tabindex="-1"></a>      <span class="st">"Astronomy &amp; Astrophysics"</span> <span class="sc">~</span> <span class="st">"ECoS"</span>,</span>
+<span id="cb11-96"><a href="#cb11-96" aria-hidden="true" tabindex="-1"></a>      <span class="st">"Entomology"</span> <span class="sc">~</span> <span class="st">"AgSci"</span>,</span>
+<span id="cb11-97"><a href="#cb11-97" aria-hidden="true" tabindex="-1"></a>      <span class="st">"Ecosystem Science &amp; Management"</span> <span class="sc">~</span> <span class="st">"AgSci"</span>,</span>
+<span id="cb11-98"><a href="#cb11-98" aria-hidden="true" tabindex="-1"></a>      <span class="st">"Plant Biology"</span> <span class="sc">~</span> <span class="st">"Huck"</span>,</span>
+<span id="cb11-99"><a href="#cb11-99" aria-hidden="true" tabindex="-1"></a>      <span class="st">"Acoustics"</span> <span class="sc">~</span> <span class="st">"Engineering"</span>,</span>
+<span id="cb11-100"><a href="#cb11-100" aria-hidden="true" tabindex="-1"></a>      <span class="st">"Communication Sciences &amp; Disorders"</span> <span class="sc">~</span> <span class="st">"HHD"</span>,</span>
+<span id="cb11-101"><a href="#cb11-101" aria-hidden="true" tabindex="-1"></a>      <span class="st">"Electrical Engineering &amp; Comp Sci"</span> <span class="sc">~</span> <span class="st">"Engineering"</span>,</span>
+<span id="cb11-102"><a href="#cb11-102" aria-hidden="true" tabindex="-1"></a>      <span class="st">"Population Research Center"</span> <span class="sc">~</span> <span class="st">"SSRI"</span>,</span>
+<span id="cb11-103"><a href="#cb11-103" aria-hidden="true" tabindex="-1"></a>      <span class="st">"Psychology (Harrisburg)"</span> <span class="sc">~</span> <span class="st">"PSU Harrisburg"</span>,</span>
+<span id="cb11-104"><a href="#cb11-104" aria-hidden="true" tabindex="-1"></a>      <span class="st">"Business and Economics"</span> <span class="sc">~</span> <span class="st">"PSU Brandywine"</span>,</span>
+<span id="cb11-105"><a href="#cb11-105" aria-hidden="true" tabindex="-1"></a>      <span class="st">"Engineering"</span> <span class="sc">~</span> <span class="st">"Engineering"</span></span>
+<span id="cb11-106"><a href="#cb11-106" aria-hidden="true" tabindex="-1"></a>    ),</span>
+<span id="cb11-107"><a href="#cb11-107" aria-hidden="true" tabindex="-1"></a>    <span class="at">.default =</span> <span class="st">"Unknown"</span>,</span>
+<span id="cb11-108"><a href="#cb11-108" aria-hidden="true" tabindex="-1"></a>    <span class="at">.missing =</span> <span class="st">"Unknown"</span></span>
+<span id="cb11-109"><a href="#cb11-109" aria-hidden="true" tabindex="-1"></a>  )</span></code><button title="Copy to Clipboard" class="code-copy-button"><i class="bi"></i></button></pre></div>
 </details>
 </div>
 <div class="cell">
@@ -768,9 +782,10 @@ Figure&nbsp;9.2: Registrations by position
 <span id="cb12-6"><a href="#cb12-6" aria-hidden="true" tabindex="-1"></a>  <span class="fu">ggplot</span>() <span class="sc">+</span></span>
 <span id="cb12-7"><a href="#cb12-7" aria-hidden="true" tabindex="-1"></a>  <span class="fu">aes</span>(<span class="at">x =</span> dept, <span class="at">fill =</span> college) <span class="sc">+</span></span>
 <span id="cb12-8"><a href="#cb12-8" aria-hidden="true" tabindex="-1"></a>  <span class="fu">geom_bar</span>(<span class="fu">aes</span>(<span class="at">y =</span> n), <span class="at">stat =</span> <span class="st">"identity"</span>) <span class="sc">+</span></span>
-<span id="cb12-9"><a href="#cb12-9" aria-hidden="true" tabindex="-1"></a>  <span class="fu">theme</span>(<span class="at">legend.position =</span> <span class="st">"right"</span>) <span class="sc">+</span></span>
-<span id="cb12-10"><a href="#cb12-10" aria-hidden="true" tabindex="-1"></a>  <span class="fu">theme</span>(<span class="at">legend.title =</span> <span class="fu">element_blank</span>()) <span class="sc">+</span></span>
-<span id="cb12-11"><a href="#cb12-11" aria-hidden="true" tabindex="-1"></a>  <span class="fu">coord_flip</span>()</span></code><button title="Copy to Clipboard" class="code-copy-button"><i class="bi"></i></button></pre></div>
+<span id="cb12-9"><a href="#cb12-9" aria-hidden="true" tabindex="-1"></a>  <span class="fu">scale_y_continuous</span>(<span class="at">breaks =</span> <span class="fu">c</span>(<span class="dv">2</span>, <span class="dv">4</span>, <span class="dv">6</span>, <span class="dv">8</span>, <span class="dv">10</span>, <span class="dv">12</span>)) <span class="sc">+</span></span>
+<span id="cb12-10"><a href="#cb12-10" aria-hidden="true" tabindex="-1"></a>  <span class="fu">theme</span>(<span class="at">legend.position =</span> <span class="st">"right"</span>) <span class="sc">+</span></span>
+<span id="cb12-11"><a href="#cb12-11" aria-hidden="true" tabindex="-1"></a>  <span class="fu">theme</span>(<span class="at">legend.title =</span> <span class="fu">element_blank</span>()) <span class="sc">+</span></span>
+<span id="cb12-12"><a href="#cb12-12" aria-hidden="true" tabindex="-1"></a>  <span class="fu">coord_flip</span>()</span></code><button title="Copy to Clipboard" class="code-copy-button"><i class="bi"></i></button></pre></div>
 </details>
 <div class="cell-output-display">
 <div id="fig-regis-dept-coll" class="quarto-float quarto-figure quarto-figure-center anchored">
